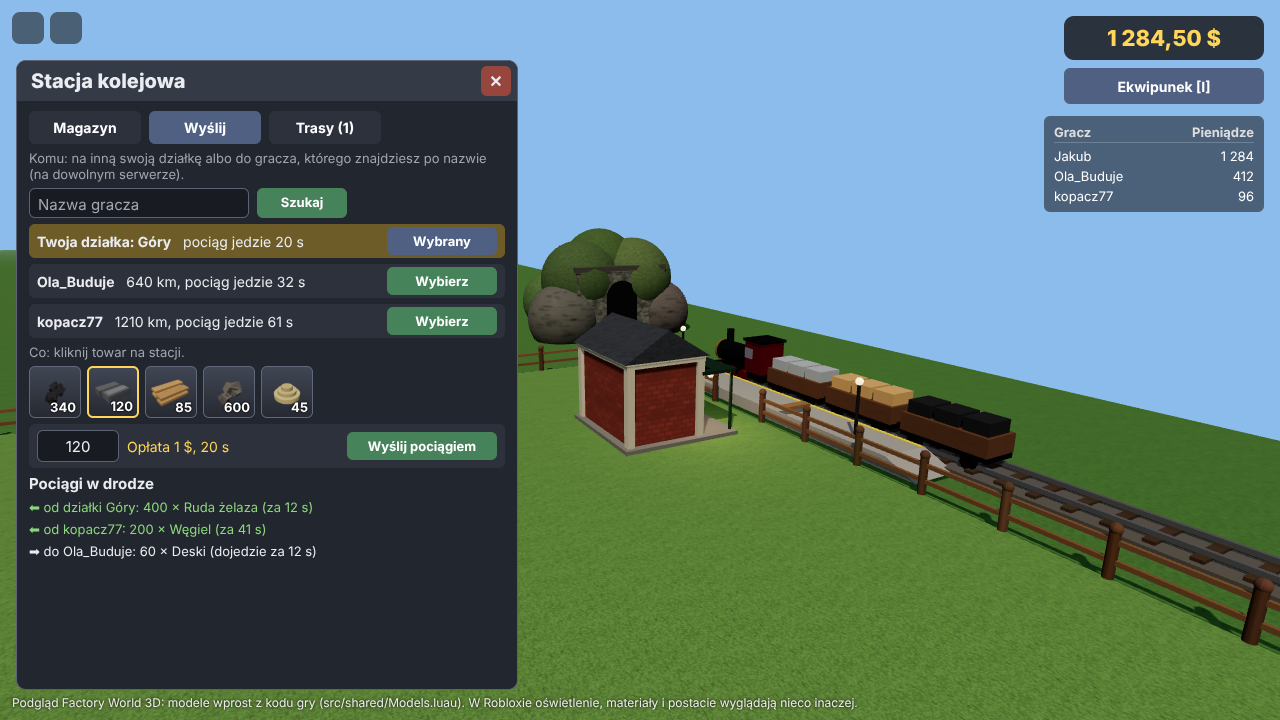
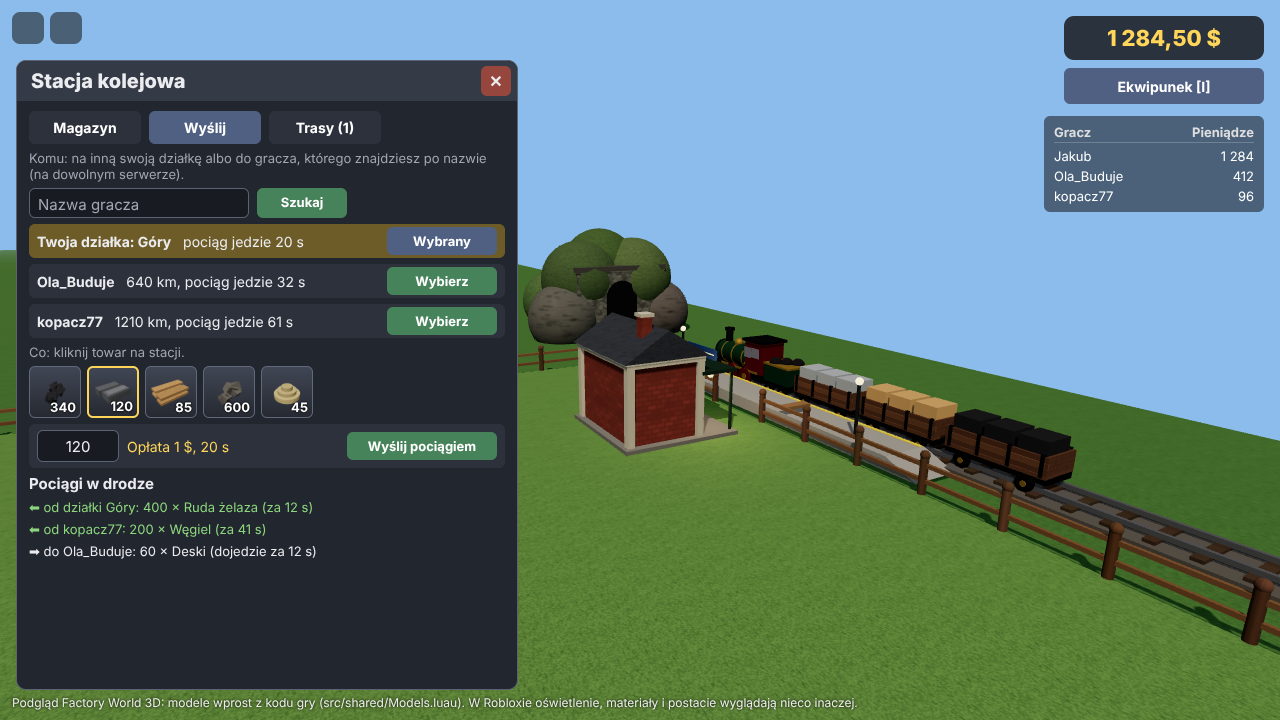
Rebuild the train and add detail to the station, chest and inserter models
Claude-Session: https://claude.ai/code/session_015q7rLHNJ66CFDjTGWXE1aJ

Changed region(s): [[0.5312, 0.4583, 0.8438, 0.7028], [0.5, 0.4278, 0.5312, 0.4583]]

diff --git a/tools/preview/scene.js b/tools/preview/scene.js
@@ -246,6 +246,16 @@ function views() {
     }
     out["17-maszyny"] = { objects, camera: { pos: [-1, 15, 33], look: [-1, 3, 0], fov: 60 }, shadowRadius: 70, caption, labels };
   }
+  // 18. The station, a train, a chest and an inserter, close up.
+  {
+    const objects = [{ at: [0, 0, 0], parts: [block([120, 1, 80], [0, -0.5, 0], [116, 158, 78], "Grass")] }];
+    const cargo = lua.call("{ Items.Colors[Items.IronIngot], Items.Colors[Items.Planks] }");
+    objects.push({ at: [-10, 0, -10], yaw: Math.PI - 0.3, parts: lua.call("Models.Station()"), lit: true });
+    objects.push({ at: [20, 0, 8], yaw: -Math.PI / 2 + 0.15, parts: lua.call(`Models.Train(2, { ${cargo.map((c) => `{ ${c.join(",")} }`).join(",")} })`), lit: true });
+    objects.push({ at: [8, 0, -6], yaw: Math.PI - 0.4, parts: lua.call("Models.WoodenChest()"), lit: true });
+    objects.push({ at: [14, 0, -6], yaw: Math.PI - 0.4, parts: lua.call("Models.Inserter()"), lit: true });
+    out["18-kolej-z-bliska"] = { objects, camera: { pos: [4, 15, 38], look: [4, 3, 0], fov: 60 }, shadowRadius: 60, caption };
+  }
   // 6. A little factory on the build grid, worked out by the game's own rules (Logistics.Run).
   {
     const p = plot(1, { furnaces: ["lit", "cold"], cut: [5] });

diff --git a/README.md b/README.md
@@ -15,6 +15,7 @@ Branch `roblox-3d` ma własną historię i zawiera tylko wersję Roblox: nie dzi
 ![Działki z biomami](docs/screenshots/15-biomy.png)
 ![Spółka](docs/screenshots/16-spolka.png)
 ![Maszyny](docs/screenshots/17-maszyny.png)
+![Kolej z bliska](docs/screenshots/18-kolej-z-bliska.png)
 ![Modele](docs/screenshots/5-modele.png)
 
 Zrzuty pochodzą z podglądu w przeglądarce (`tools/preview/`), który rysuje dokładnie te modele, które buduje serwer
@@ -28,7 +29,7 @@ Zrzuty pochodzą z podglądu w przeglądarce (`tools/preview/`), który rysuje d
 | 2. Logistyka | Działka 232 × 232 study z siatką budowania na całości (56 × 56 pól po 4 study; wszystko na działce stoi na jej polach), tryb budowania (stawianie, obracanie, rozbiórka, linie siatki widoczne tylko przy budowaniu), taśmociągi (2 pasy, zakręty, dołączanie z boku, przeciąganie skręca taśmę), podajniki, drewniane skrzynie (8 miejsc po 100 szt.), piec na siatce karmiony podajnikami, drzewa jak w 2D (ścięte znika, 30% na sadzonkę, sadzonka rośnie 10 min), nowe przepisy na stole (taśmociąg ×4, podajnik, skrzynia), gęsty las między działkami i wokół placu (tylko ozdoba, nie da się go ściąć ani w nim budować; ścieżki do bram wolne) | gotowe |
 | 3. Przetwórstwo | Maszyny na siatce (2 × 2 pola, odlewnia 3 × 3) z przepisami i czasami z gry 2D: tartak (deski, belki, pellet), warsztat kamieniarski (bloki), kruszarka (piasek, kruszywo rud: 3 z 2 rud, w piecu topi się szybciej), odlewnia na węgiel, drewno albo pellet (brąz, stal, cegły); maszyna robi wsad za wsadem także pod nieobecność gracza, podajniki ją karmią i opróżniają. Badania (jedno naraz, koszt od razu, czas jak w 2D): Gospodarka leśna, Kamieniarstwo, Kruszenie, Metalurgia odblokowują maszyny na stole i u handlarza. Od etapu 5 kruszarka potrzebuje prądu | gotowe |
 | 4. Handel | Rynek graczy na wszystkich serwerach (**M**): oferty sprzedaży i zamówienia jak w 2D (towar albo pieniądze czekają w ofercie, inni biorą część albo całość, zarobek przychodzi sam także pod nieobecność; do 20 ofert każdego rodzaju, do 10 000 szt. i 1 000 000 $ za sztukę, rzeczy niezbadane można tylko sprzedawać). Wydarzenia rynkowe u handlarza co 6 godzin (Boom na stal, Boom budowlany, Sroga zima, Gorączka miedzi, Moda na brąz, Gorączka złota, Zalew kamienia, Wyprzedaż maszyn), takie same na każdym serwerze, oraz codzienne wahania cen skupu do 10%; handlarz zawsze płaci najwyżej 90% swojej ceny sprzedaży | gotowe |
-| 5. Świat | **Prąd (gotowe):** generator parowy 2 × 2 (100 kW, węgiel 200 s, drewno 50 s, pellet 40 s przy pełnej mocy, do 50 sztuk; paliwo wkłada się w jego oknie albo podajnikiem), słupy energetyczne (zasilają pola 5 × 5 wokół siebie, łączą się kablem ze słupami do 7 pól dalej w jedną sieć), kruszarka pobiera 40 kW; przy za małej mocy wszystkie maszyny sieci pracują wolniej, bez prądu stoją i pamiętają postęp wsadu. Generator (stół: 10 kamieni, 8 sztabek żelaza, 4 sztabki miedzi) i słupy (×2: 2 drewna, 1 sztabka miedzi). Liczone na żądanie także pod nieobecność gracza. **Pociągi (gotowe):** każda działka ma stację kolejową (3 × 3 pola przy wschodnim płocie, nie da się jej rozebrać) z peronem i torem za płotem, który z obu stron znika w tunelu. Towar ładuje się na stację ręcznie albo podajnikami (do 10 000 szt. jednego towaru), podajniki też ją rozładowują. Wysyłka do innego gracza (szukanie po nazwie, na dowolnym serwerze): opłata 1 $ + 1 ¢ za sztukę na 100 km, czas 5 s na 100 km (najmniej 10 s), jak w 2D; towar czeka na stacji odbiorcy, także gdy go nie ma w grze. Trasy (do 5): pociąg co 1, 5, 15 albo 60 minut z wybranymi towarami albo wszystkim (do 2000 szt.), póki właściciel jest w grze. Pociąg widać, jak przyjeżdża z tunelu, staje przy peronie i odjeżdża. **Stół warsztatowy** jako przedmiot (u handlarza albo z 20 drewna i 5 gwoździ) do postawienia na działce. **Działki z biomami (gotowe, L):** poza pierwszą działką (Łąka) można kupić po jednej działce Las (60 drzew, kopalnia z dużą ilością węgla), Pustynia (bez drzew; piasek, miedź, cyna, czasem złoto), Góry (8 drzew; żelazo, srebro, węgiel) i Tundra (16 ośnieżonych świerków; cyna, srebro, złoto). Biom wybiera się przy zakupie, a działki kosztują 50 000 $, 500 000 $, 5 000 000 $ i każda następna 1 000 000 000 $. Na serwerze gracz ma jedno miejsce na działkę: w oknie *Moje działki* wybiera, którą tam pokazać, a gra buduje ją w tym samym miejscu z jej ziemią, kopalnią, siatką, piecami i maszynami. Działki, których nie widać, liczą się dalej i po powrocie wszystko jest nadrobione. **Pociągi między własnymi działkami (gotowe):** każda działka ma swoją stację z torem. W oknie stacji na liście „Komu” są najpierw twoje inne działki: pociąg jedzie 20 s i kosztuje tylko 1 $, a towar trafia na stację tamtej działki, także gdy jej nie widać. Trasy działają tak samo (np. ruda z Gór co 5 minut na Łąkę) i ruszają ze stacji działki, na której je dodano; działka, której nie widać, jest przed odjazdem przeliczona do teraz. Pociągi od innych graczy przyjeżdżają na stację Łąki. Odległości pociągów nadal liczą się w wymyślonym świecie 2400 × 1200 km. **Spółki (gotowe, K):** gracze z dowolnych serwerów zakładają spółkę (10 000 $, które trafiają do jej kasy; założyciel dostaje 1000 udziałów) albo dołączają do istniejącej (do 10 wspólników, nazwa unikalna i sprawdzona filtrem Robloxa). Udziały kupuje się po cenie udziału (kasa ÷ udziały, najmniej 1 $) i sprzedaje spółce za 95% tej ceny. Co tydzień spółka ma 3 zlecenia na towar (zawsze takie same dla danej spółki i tygodnia); towar z ekwipunku płaci 160% ceny handlarza do kasy, a oddający dostaje udziały warte tyle, ile dałby handlarz, więc reszta podnosi cenę udziałów wszystkich. Założyciel raz dziennie wypłaca dywidendę (20% kasy według udziałów), może usuwać wspólników (ich udziały są odkupione) i zamyka spółkę, odchodząc jako ostatni. Dywidendy przychodzą same, także po powrocie do gry. Pociągi do wspólników są na liście „Komu” od razu i płacą 70% opłaty za odległość. **Lepsze modele (pierwsza tura):** nowa kruszarka (stalowa obudowa na nogach, koła zamachowe, walce w leju, taśma wysypująca kruszywo, drabinka), nowy warsztat kamieniarski (piła tarczowa na wysięgniku nad stołem z płytą, zbiornik wody, paleta bloków) i nowy generator (kocioł z kopułą, manometrem i zaworem, maszyna parowa z kołem zamachowym napędzającym prądnicę), a tartak i odlewnia mają więcej szczegółów; wszystko nadal z części w `Models.luau`, bez wgrywania assetów | w toku |
+| 5. Świat | **Prąd (gotowe):** generator parowy 2 × 2 (100 kW, węgiel 200 s, drewno 50 s, pellet 40 s przy pełnej mocy, do 50 sztuk; paliwo wkłada się w jego oknie albo podajnikiem), słupy energetyczne (zasilają pola 5 × 5 wokół siebie, łączą się kablem ze słupami do 7 pól dalej w jedną sieć), kruszarka pobiera 40 kW; przy za małej mocy wszystkie maszyny sieci pracują wolniej, bez prądu stoją i pamiętają postęp wsadu. Generator (stół: 10 kamieni, 8 sztabek żelaza, 4 sztabki miedzi) i słupy (×2: 2 drewna, 1 sztabka miedzi). Liczone na żądanie także pod nieobecność gracza. **Pociągi (gotowe):** każda działka ma stację kolejową (3 × 3 pola przy wschodnim płocie, nie da się jej rozebrać) z peronem i torem za płotem, który z obu stron znika w tunelu. Towar ładuje się na stację ręcznie albo podajnikami (do 10 000 szt. jednego towaru), podajniki też ją rozładowują. Wysyłka do innego gracza (szukanie po nazwie, na dowolnym serwerze): opłata 1 $ + 1 ¢ za sztukę na 100 km, czas 5 s na 100 km (najmniej 10 s), jak w 2D; towar czeka na stacji odbiorcy, także gdy go nie ma w grze. Trasy (do 5): pociąg co 1, 5, 15 albo 60 minut z wybranymi towarami albo wszystkim (do 2000 szt.), póki właściciel jest w grze. Pociąg widać, jak przyjeżdża z tunelu, staje przy peronie i odjeżdża. **Stół warsztatowy** jako przedmiot (u handlarza albo z 20 drewna i 5 gwoździ) do postawienia na działce. **Działki z biomami (gotowe, L):** poza pierwszą działką (Łąka) można kupić po jednej działce Las (60 drzew, kopalnia z dużą ilością węgla), Pustynia (bez drzew; piasek, miedź, cyna, czasem złoto), Góry (8 drzew; żelazo, srebro, węgiel) i Tundra (16 ośnieżonych świerków; cyna, srebro, złoto). Biom wybiera się przy zakupie, a działki kosztują 50 000 $, 500 000 $, 5 000 000 $ i każda następna 1 000 000 000 $. Na serwerze gracz ma jedno miejsce na działkę: w oknie *Moje działki* wybiera, którą tam pokazać, a gra buduje ją w tym samym miejscu z jej ziemią, kopalnią, siatką, piecami i maszynami. Działki, których nie widać, liczą się dalej i po powrocie wszystko jest nadrobione. **Pociągi między własnymi działkami (gotowe):** każda działka ma swoją stację z torem. W oknie stacji na liście „Komu” są najpierw twoje inne działki: pociąg jedzie 20 s i kosztuje tylko 1 $, a towar trafia na stację tamtej działki, także gdy jej nie widać. Trasy działają tak samo (np. ruda z Gór co 5 minut na Łąkę) i ruszają ze stacji działki, na której je dodano; działka, której nie widać, jest przed odjazdem przeliczona do teraz. Pociągi od innych graczy przyjeżdżają na stację Łąki. Odległości pociągów nadal liczą się w wymyślonym świecie 2400 × 1200 km. **Spółki (gotowe, K):** gracze z dowolnych serwerów zakładają spółkę (10 000 $, które trafiają do jej kasy; założyciel dostaje 1000 udziałów) albo dołączają do istniejącej (do 10 wspólników, nazwa unikalna i sprawdzona filtrem Robloxa). Udziały kupuje się po cenie udziału (kasa ÷ udziały, najmniej 1 $) i sprzedaje spółce za 95% tej ceny. Co tydzień spółka ma 3 zlecenia na towar (zawsze takie same dla danej spółki i tygodnia); towar z ekwipunku płaci 160% ceny handlarza do kasy, a oddający dostaje udziały warte tyle, ile dałby handlarz, więc reszta podnosi cenę udziałów wszystkich. Założyciel raz dziennie wypłaca dywidendę (20% kasy według udziałów), może usuwać wspólników (ich udziały są odkupione) i zamyka spółkę, odchodząc jako ostatni. Dywidendy przychodzą same, także po powrocie do gry. Pociągi do wspólników są na liście „Komu” od razu i płacą 70% opłaty za odległość. **Lepsze modele (pierwsza tura):** nowa kruszarka (stalowa obudowa na nogach, koła zamachowe, walce w leju, taśma wysypująca kruszywo, drabinka), nowy warsztat kamieniarski (piła tarczowa na wysięgniku nad stołem z płytą, zbiornik wody, paleta bloków) i nowy generator (kocioł z kopułą, manometrem i zaworem, maszyna parowa z kołem zamachowym napędzającym prądnicę), a tartak i odlewnia mają więcej szczegółów. **Druga tura:** nowy parowóz (zielony kocioł z mosiężnymi obręczami i kopułami, duże koła napędowe, zderzaki i zgarniacz, kabina z oknami, tender z węglem) i wagony z deskami i kłonicami; stacja z kominem, skrzynkami kwiatów, ławką i tablicą; skrzynia z okuciami i uchwytami; podajnik z siłownikiem i lampką; wszystko nadal z części w `Models.luau`, bez wgrywania assetów | w toku |
 
 ## Uruchomienie w Roblox Studio
 
